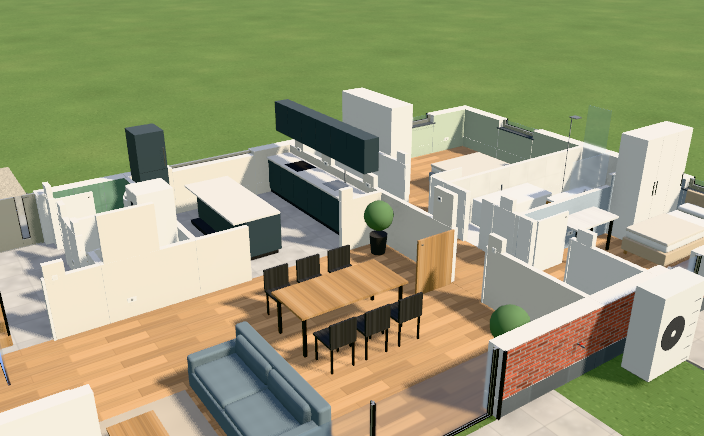
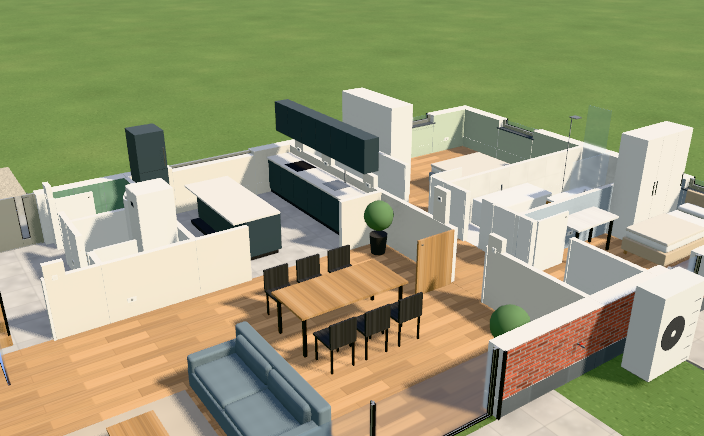
Bouw: hoog toestel en zijn stukje muur alleen van de kant van de ruimte (ronde 17, vervolg)
Met Muren laag stond in het eerste beeld Schuin vooraan de witte achterkant van het
stukje muur achter de airco, en achter tellerkast en verdeelbord een hoger stuk muur.
Nieuw optioneel veld Blok.alleenVanVoren (punt en normaal): de kijker toont zo'n blok
alleen als de camera aan de voorkant staat (wandenNaarCamera, zoals de decorwanden),
zonder schaduw, niet samengevoegd, en het vangt geen tik als het weg is. Stukjes muur
per muur en per kant. Pakket blijft versie 4; een oudere kijker toont ze altijd.
Twee nieuwe referentiebeelden bewust vernieuwd; zetels en andere beelden 0,00 %.

Claude-Session: https://claude.ai/code/session_01PczewFp9M8BS44vqTSpk6u

diff --git a/packages/core/src/techniekbinnen.ts b/packages/core/src/techniekbinnen.ts
@@ -18,7 +18,10 @@
  *     een eind erboven, over de breedte van het toestel plus een rand, in de wand van de ruimte, zoals een snede die daar
  *     hoger blijft. Een binnenmuur over haar hele dikte (aan elke kant de wand van die ruimte); een buitenmuur alleen met
  *     haar binnenblad (14 cm): de gevel blijft op de snijhoogte, anders stond er buiten een schoorsteen van baksteen.
- *     Toestellen dicht bij elkaar delen één stukje; een stukje loopt nooit over een raam of deur of door een hoek.
+ *     Toestellen dicht bij elkaar delen één stukje; een stukje loopt nooit over een raam of deur of door een hoek. Het
+ *     toestel en zijn stukje zijn **alleen te zien van de kant van de ruimte** waarin het hangt (`Blok.alleenVanVoren`,
+ *     de kijker volgt de camera): van achteren of van buiten de woning zie je gewoon de lage muur (vervolg ronde 17: in het
+ *     eerste beeld *Schuin* stond de witte achterkant van het stukje achter de airco vooraan en verborg de leefruimte).
  *   - aan het plafond (lichtpunt, inbouwspot, hanglamp, ventiel, cassette): weg; je ziet ze van binnen (`techniekVanBinnen`)
  *     en in de woning met volle muren en een dak.
  *   - op de vloer (warmtepomp, boiler, batterij): gewoon, ook als ze hoger zijn dan de lage muren (zoals een kast).
@@ -29,7 +32,7 @@
 import { binnenKant, isAccent, PLAFOND_DIKTE } from './binnenafwerking.js';
 import { toestelLicht } from './nacht.js';
 import {
-  buitenAfwerking, grondPrisma, langsAs, murenVan, muurVanOpening, niveauPlan, niveauVan, NEUTRAAL, opAs, ruimteOp, toestelBuiten,
+  asVan, buitenAfwerking, grondPrisma, langsAs, murenVan, muurVanOpening, niveauPlan, niveauVan, NEUTRAAL, opAs, ruimteOp, toestelBuiten,
   vloerHoogte, type GevelAfwerking, type GevelKant, type Muur, type PlanCatalogus, type Plattegrond, type Punt, type Ruimte,
 } from './plattegrond.js';
 import type { Blok } from './ruimtelijk.js';
@@ -100,8 +103,22 @@ function muurAchter(t: Toestel, type: ToestelType, muren: Muur[]): { m: Muur; s:
   return beste;
 }
 
-/** Een stukje muur: langs muur m van a tot b (langs de as), van y0 tot y1 (in de wereld). */
-interface Stukje { m: Muur; a: number; b: number; y0: number; y1: number; toestel: string }
+/**
+ * Een stukje muur: langs muur m van a tot b (langs de as), van y0 tot y1 (in de wereld), aan de kant `plus` of min van
+ * de muur (de kant van het toestel), en alleen te zien van die kant (`voren`).
+ */
+interface Stukje { m: Muur; a: number; b: number; y0: number; y1: number; toestel: string; plus: boolean; voren: NonNullable<Blok['alleenVanVoren']> }
+
+/**
+ * Het vlak van muur m aan de kant van een toestel (`plus` of min), met de normaal naar de ruimte: het toestel en zijn
+ * stukje muur zijn alleen te zien als de camera aan die kant staat (`Blok.alleenVanVoren`). Van achteren of van buiten de
+ * woning zie je dan gewoon de lage muur, zoals met de techniek uit.
+ */
+function vanVoren(m: Muur, plus: boolean, s: number, y: number): NonNullable<Blok['alleenVanVoren']> {
+  const { n } = asVan(m), k = plus ? 1 : -1;
+  const [x, z] = langsAs(m, s, m.lijn + (k * m.dikte) / 2);
+  return { punt: [r2(x), r2(y), r2(z)], normaal: [n[0] * k, 0, n[1] * k] };
+}
 
 /** De afwerking van de kant van muur m naar ruimte `id` (de wand, of de accentmuur), of de gevel als er geen ruimte is. */
 function kantAfwerking(plan: Plattegrond, cat: PlanCatalogus, m: Muur, id: string | undefined): GevelAfwerking {
@@ -113,11 +130,15 @@ function kantAfwerking(plan: Plattegrond, cat: PlanCatalogus, m: Muur, id: strin
   return w ? { soort: w.soort, kleur: w.kleur } : { soort: 'gevel', kleur: SNEDE };
 }
 
-/** De stukjes muur als blokken: per muur de stukjes die elkaar raken samen (geen vlakken op elkaar die flikkeren). */
+/**
+ * De stukjes muur als blokken: per muur en per kant de stukjes die elkaar raken samen (geen vlakken op elkaar die
+ * flikkeren). Twee stukjes aan weerskanten van dezelfde binnenmuur zie je nooit samen (elk alleen van zijn kant).
+ */
 function stukjesBlokken(plan: Plattegrond, cat: PlanCatalogus, stukjes: Stukje[], dingen: boolean): Blok[] {
   const uit: Blok[] = [];
   const perMuur = new Map<string, Stukje[]>();
-  for (const s of stukjes) perMuur.set(s.m.id, [...(perMuur.get(s.m.id) ?? []), s]);
+  for (const s of stukjes) { const k = `${s.m.id}|${s.plus}`; perMuur.set(k, [...(perMuur.get(k) ?? []), s]); }
+  const teller = new Map<string, number>();
   for (const lijst of perMuur.values()) {
     lijst.sort((p, q) => p.a - q.a);
     const samen: Stukje[] = [];
@@ -126,8 +147,10 @@ function stukjesBlokken(plan: Plattegrond, cat: PlanCatalogus, stukjes: Stukje[]
       if (vorige && s.a <= vorige.b + STUKJE_MUUR.samen) samen[samen.length - 1] = { ...vorige, b: Math.max(vorige.b, s.b), y1: Math.max(vorige.y1, s.y1) };
       else samen.push(s);
     }
-    for (const [i, s] of samen.entries()) {
+    for (const s of samen) {
       const { m } = s;
+      const i = teller.get(m.id) ?? 0;
+      teller.set(m.id, i + 1);
       const code = `${BINNEN_TECHNIEK}_muur_${m.id}_${i}`;
       const naam = dingen ? `toestel:${s.toestel}.${code}` : code;
       // Dwars op de muur: een binnenmuur helemaal; een buitenmuur alleen haar binnenblad (de gevel blijft op de snijhoogte,
@@ -146,14 +169,14 @@ function stukjesBlokken(plan: Plattegrond, cat: PlanCatalogus, stukjes: Stukje[]
         // Met de klok mee, zoals de muren (`metDeKlok`): anders omgekeerd, de randen mee (rand i loopt van punt i naar i + 1).
         const opp = punten.reduce((t, p, k) => { const q = punten[(k + 1) % punten.length]!; return t + p[0] * q[1] - q[0] * p[1]; }, 0);
         const [pt, rn] = opp < 0 ? [[...punten].reverse(), [randen[2]!, randen[1]!, randen[0]!, randen[3]!]] : [punten, randen];
-        uit.push(grondPrisma(naam, 'gevel', SNEDE, pt, r2(s.y0), h, { randen: rn }));
+        uit.push(grondPrisma(naam, 'gevel', SNEDE, pt, r2(s.y0), h, { randen: rn, alleenVanVoren: s.voren }));
         continue;
       }
       const [zp, zm] = m.as === 'h' ? (['z+', 'z-'] as const) : (['x+', 'x-'] as const);
       const zijden: Blok['zijden'] = {};
       if (plusAfw) zijden[zp] = plusAfw;
       if (minAfw) zijden[zm] = minAfw;
-      const basis = { code: naam, soort: 'gevel' as const, vorm: 'blok' as const, kleur: SNEDE, y: r2(s.y0), h, zijden };
+      const basis = { code: naam, soort: 'gevel' as const, vorm: 'blok' as const, kleur: SNEDE, y: r2(s.y0), h, zijden, alleenVanVoren: s.voren };
       uit.push(m.as === 'h'
         ? { ...basis, x: r2(s.a), z: r2(w0), b: r2(s.b - s.a), d: r2(w1 - w0) }
         : { ...basis, x: r2(w0), z: r2(s.a), b: r2(w1 - w0), d: r2(s.b - s.a) });
@@ -218,7 +241,7 @@ export function techniekBinnenBlokken(plan: Plattegrond, cat: PlanCatalogus, o: 
     if (t.aan === 'plafond' && bovenste && (laag !== undefined || !o.dakErop)) continue;
     const vloer = vloerHoogte(plan, n);
     const code = `${BINNEN_TECHNIEK}_${t.id}`;
-    const blokken = toestelAfgewerkt(t, type, vloer, H, code);
+    let blokken = toestelAfgewerkt(t, type, vloer, H, code);
     if (t.aan === 'wand' && laag !== undefined) {
       const top = Math.max(...blokken.map((b) => b.y + b.h)) - vloer;
       if (top > laag + 0.5) {
@@ -228,7 +251,10 @@ export function techniekBinnenBlokken(plan: Plattegrond, cat: PlanCatalogus, o: 
         // Geen muur erachter (of het hangt in een opening): niet tonen, anders zweeft het.
         if (!achter || !langs) continue;
         const y1 = boven === 'plafond' ? H : Math.min(H, Math.max(top + STUKJE_MUUR.boven, laag + STUKJE_MUUR.minstens));
-        stukjes.push({ m: achter.m, a: langs[0], b: langs[1], y0: vloer + laag, y1: vloer + y1, toestel: t.id });
+        // Het toestel en zijn stukje muur alleen van de kant van de ruimte waarin het hangt (zie `vanVoren`).
+        const voren = vanVoren(achter.m, achter.plus, achter.s, vloer + laag);
+        stukjes.push({ m: achter.m, a: langs[0], b: langs[1], y0: vloer + laag, y1: vloer + y1, toestel: t.id, plus: achter.plus, voren });
+        blokken = blokken.map((b) => ({ ...b, alleenVanVoren: voren }));
       }
     }
     const metLicht = o.verlichting ? gloeiBinnen(blokken, type, t) : blokken;

diff --git a/packages/core/test/techniekbinnen.test.ts b/packages/core/test/techniekbinnen.test.ts
@@ -134,8 +134,10 @@ describe('techniek binnen in de afgewerkte woning (techniekBinnen)', () => {
       expect(dekt!.y).toBe(LAAG);
       expect(dekt!.y + dekt!.h).toBeGreaterThanOrEqual(top(eigen) + STUKJE_MUUR.boven - 0.01);
     }
-    // Geen twee stukjes die elkaar overlappen (vlakken op elkaar flikkeren), geen stukje over een opening.
+    // Geen twee stukjes van dezelfde kant die elkaar overlappen (vlakken op elkaar flikkeren; twee kanten zie je nooit
+    // samen, zie hieronder), geen stukje over een opening.
     for (const [i, a] of stukjes.entries()) for (const b of stukjes.slice(i + 1)) {
+      if (JSON.stringify(a.alleenVanVoren?.normaal) !== JSON.stringify(b.alleenVanVoren?.normaal)) continue;
       const overlap = Math.min(a.x + a.b, b.x + b.b) - Math.max(a.x, b.x) > 0.01 && Math.min(a.z + a.d, b.z + b.d) - Math.max(a.z, b.z) > 0.01;
       expect(overlap).toBe(false);
     }
@@ -155,6 +157,41 @@ describe('techniek binnen in de afgewerkte woning (techniekBinnen)', () => {
     expect(Object.keys(achterAirco.zijden ?? {})).toEqual(['z-']);
     // Alle stukjes horen bij een toestel binnen (een tik erop kiest dat toestel).
     for (const s of stukjes) expect(plan.toestellen!.some((t) => t.id === idVan(s))).toBe(true);
+  });
+
+  it('muren laag: een hoog toestel en zijn stukje muur alleen van de kant van de ruimte (alleenVanVoren); de rest altijd', () => {
+    const { plan } = uitgerusteWoning();
+    const tc = cat.techniek!;
+    const bl = binnen(plattegrond3D(plan, cat, { dingen: true, laag: LAAG, totNiveau: 0, techniekBinnen: true }).blokken);
+    const voor = (b: Blok, p: readonly [number, number, number]) => {
+      const v = b.alleenVanVoren!;
+      return (p[0] - v.punt[0]) * v.normaal[0] + (p[1] - v.punt[1]) * v.normaal[1] + (p[2] - v.punt[2]) * v.normaal[2];
+    };
+    for (const t of plan.toestellen!.filter((x) => (x.niveau ?? 0) === 0 && !toestelBuiten(plan, x))) {
+      const eigen = bl.filter((b) => idVan(b) === t.id && !b.code.includes('_muur_'));
+      if (!eigen.length) continue;
+      const hoog = t.aan === 'wand' && t.hoogte + toestelMaten(tc.toestellen[t.type]!, t.aan).h > LAAG;
+      expect(eigen.every((b) => !!b.alleenVanVoren === hoog), t.id).toBe(true);
+      if (!hoog) continue;
+      // Het vlak ligt op de muur achter het toestel: het toestel (een eind vóór de muur) staat aan de voorkant, een punt een
+      // halve meter achter de muur niet.
+      const [vx, vy] = voorRichting(t.draai);
+      const m3 = toestelMaten(tc.toestellen[t.type]!, t.aan);
+      const b0 = eigen[0]!;
+      expect(voor(b0, [t.x + vx * 50, 150, t.y + vy * 50]), t.id).toBeGreaterThan(0);
+      expect(voor(b0, [t.x - vx * (m3.d / 2 + 60), 150, t.y - vy * (m3.d / 2 + 60)]), t.id).toBeLessThan(0);
+      // Het stukje muur achter het toestel ligt in hetzelfde vlak (zelfde normaal, punt op hetzelfde vlak).
+      const zelfdeVlak = (b: Blok) => !!b.alleenVanVoren && JSON.stringify(b.alleenVanVoren.normaal) === JSON.stringify(b0.alleenVanVoren!.normaal) && Math.abs(voor(b0, b.alleenVanVoren.punt)) < 0.01;
+      expect(bl.some((b) => b.code.includes('_muur_') && zelfdeVlak(b)), t.id).toBe(true);
+    }
+    // Elk stukje muur heeft een vlak; zonder lage muren en van binnen heeft niets het.
+    expect(bl.filter((b) => b.code.includes('_muur_')).every((b) => !!b.alleenVanVoren)).toBe(true);
+    expect(binnen(plattegrond3D(plan, cat, { dingen: true, techniekBinnen: true }).blokken).some((b) => b.alleenVanVoren)).toBe(false);
+    expect(binnen(ruimteVanBinnen(plan, cat, 'leef', { dingen: true, techniek: true })!.blokken).some((b) => b.alleenVanVoren)).toBe(false);
+    // De airco hangt aan de tuingevel (voorkant naar de straat): van de tuinkant (het standpunt Schuin) is ze weg.
+    const airco = bl.find((b) => idVan(b) === plan.toestellen!.find((t) => t.type === 'airco_wand')!.id)!;
+    expect(voor(airco, [700, 600, 2000])).toBeLessThan(0);
+    expect(voor(airco, [700, 600, -1200])).toBeGreaterThan(0);
   });
 
   it('muren laag, andere manieren: tot het plafond of weg', () => {

diff --git a/packages/demo-web/src/drie-d.ts b/packages/demo-web/src/drie-d.ts
@@ -2791,6 +2791,8 @@ function maakViewer(houder: HTMLElement, opties: Opties3D, intern: { geenWebGPU:
 
   /** Wanden van het decor (wegvallen als de camera erachter staat) en hoe ver het schaduwbereik moet reiken. */
   let decorWanden: { obj: any; punt: [number, number, number]; normaal: [number, number, number] }[] = [];
+  /** Ronde 17 (bouw): blokken met `alleenVanVoren` (een stukje muur met een hoog toestel), ook weg als de camera erachter staat. */
+  let vanVorenDelen: typeof decorWanden = [];
   let decorMarge = 0;
   function zetDecor(s: Scene3D | null) {
     for (const d of kamerDelen) { scene.remove(d); d.traverse((o: any) => o.geometry?.dispose()); }
@@ -2866,7 +2868,7 @@ function maakViewer(houder: HTMLElement, opties: Opties3D, intern: { geenWebGPU:
   }
   /** Wanden tussen de camera en de zetel weglaten (zoals in een bouwspel), anders zie je de zetel niet. */
   function wandenNaarCamera() {
-    for (const w of decorWanden) {
+    for (const w of [...decorWanden, ...vanVorenDelen]) {
       const d = (camera.position.x - w.punt[0]) * w.normaal[0] + (camera.position.y - w.punt[1]) * w.normaal[1] + (camera.position.z - w.punt[2]) * w.normaal[2];
       w.obj.visible = d > 0;
     }
@@ -3034,7 +3036,7 @@ function maakViewer(houder: HTMLElement, opties: Opties3D, intern: { geenWebGPU:
     const r = renderer.domElement.getBoundingClientRect();
     straal.setFromCamera(new THREE.Vector2(((ev.clientX - r.left) / r.width) * 2 - 1, -((ev.clientY - r.top) / r.height) * 2 + 1), camera);
     // Een gebouw: blokken die alleen schaduw werpen (lichtinval, `schaduw_…`) zijn onzichtbaar en vangen geen tik.
-    const raak = straal.intersectObjects(groep.children, true).find((h: any) => (h.object.name || h.object.parent?.name) && (opties.zetel || !String(h.object.name).startsWith('schaduw_')));
+    const raak = straal.intersectObjects(groep.children, true).find((h: any) => (h.object.name || h.object.parent?.name) && (opties.zetel || !String(h.object.name).startsWith('schaduw_')) && h.object.userData.vanVoren?.visible !== false);
     // Echt 3D-model: het element onder de klik, volgens zijn stuk langs x.
     const echt = raak?.object.parent?.userData?.echt as Echt3DPlaatsing | undefined;
     if (echt) {
@@ -3676,7 +3678,7 @@ function maakViewer(houder: HTMLElement, opties: Opties3D, intern: { geenWebGPU:
     const los: Blok[] = [];
     const groepen = new Map<string, { naam: string; mat: any; schaduw: boolean; vormen: any[] }>();
     for (const b of blokken) {
-      if (b.alleenSchaduw || b.soort === 'glas' || b.soort === 'matglas' || b.licht) { los.push(b); continue; }
+      if (b.alleenSchaduw || b.soort === 'glas' || b.soort === 'matglas' || b.licht || b.alleenVanVoren) { los.push(b); continue; }
       const m = mesh(b);
       const mats = Array.isArray(m.material) ? m.material : [m.material];
       if (!m.isMesh || m.children.length || mats.some((x: any) => x !== mats[0])) { m.geometry?.dispose(); los.push(b); continue; }
@@ -3758,8 +3760,14 @@ function maakViewer(houder: HTMLElement, opties: Opties3D, intern: { geenWebGPU:
       const apart = zichtbaar.filter((b) => !versmolten.has(b));
       lichtDelen = [];
       waasDelen = [];
+      vanVorenDelen = [];
       for (const b of !opties.zetel && s.samenvoegen ? voegGelijkeSamen(apart) : apart) {
         const m = mesh(b);
+        // Ronde 17: alleen van voren (zie `wandenNaarCamera`); geen schaduw (die volgt de camera niet) en geen tik als het weg is.
+        if (b.alleenVanVoren) {
+          m.traverse((o: any) => { o.castShadow = false; o.userData.vanVoren = m; });
+          vanVorenDelen.push({ obj: m, punt: b.alleenVanVoren.punt, normaal: b.alleenVanVoren.normaal });
+        }
         // Licht bij nacht (ronde 15): onthouden met het gewone materiaal; `zetNacht` zet het oplichtende erop.
         if (!opties.zetel && b.licht && typeof b.licht.kleur === 'string' && !b.alleenSchaduw && m.isMesh) {
           lichtDelen.push({ mesh: m, licht: b.licht, dag: m.material });

diff --git a/packages/core/src/ruimtelijk.ts b/packages/core/src/ruimtelijk.ts
@@ -127,6 +127,13 @@ export interface Blok {
    */
   alleenSchaduw?: boolean;
   /**
+   * Alleen te zien van voren (ronde 17, bouw): de kijker tekent het blok alleen als de camera aan de voorkant van dit vlak
+   * staat, (camera − `punt`) · `normaal` > 0 (wereld, cm), bij elk beeld opnieuw; dan vangt het ook geen tik en werpt
+   * het geen schaduw. Zo verdwijnt met lage muren een stukje muur met een hoog toestel erop als je het van achteren of van
+   * buiten de woning ziet. Een kijker die het veld niet kent, tekent het blok altijd.
+   */
+  alleenVanVoren?: { punt: [number, number, number]; normaal: [number, number, number] };
+  /**
    * Draaiing rond de verticale as in graden (van x naar z), rond het midden; bv. een kussen in een gebogen zetel, of een
    * raam, deur of meubel in een schuine muur (zie `draaiBlokken`). x, z, b en d zijn het blok vóór de draaiing.
    */

diff --git a/.claude/skills/bouw-woning/SKILL.md b/.claude/skills/bouw-woning/SKILL.md
@@ -47,7 +47,7 @@ Demo: `packages/bouw-web` (één HTML-bestand, `npm run build -w @configurator/b
 | `core/voorbeelden/woningopbouw.ts`, `bouw-web/src/constructie-ui.ts`, `doorsnede-ui.ts` | Opbouw per plaats (catalogus); knop Afgewerkt / Constructie, opbouw bij Woning, kaart Constructie in het overzicht; tab Doorsnede |
 | `core/src/techniek.ts` | Techniek voor de installateur (ronde 10): soorten gegevens (toestel, leiding, catalogus), vormen in 3D, `leidingVerloop`, `techniekBlokken`, `telTechniek`, `TECHNIEK_VOORBEHOUD`; via `plattegrond.ts` in de index |
 | `core/src/techniekplaatsen.ts` | Hulp voor het scherm: `tegenWand`, `leidingLangsWanden`, `technischeOpstelling`, `vloerverwarmingLus` (niet in de index: rechtstreeks importeren) |
-| `core/src/techniekbinnen.ts` | De techniek binnen in de afgewerkte woning (ronde 17): `techniekBinnenBlokken` (via `Plan3DOpties.techniekBinnen`), `techniekVanBinnen` (via `ruimteVanBinnen(…, { techniek })`), `toestelAfgewerkt` (met `ToestelType.inbouw`), het stukje muur (`STUKJE_MUUR`, `BovenSnede`), `isBinnenTechniek`, `heeftTechniekBinnen`, `BINNEN_TECHNIEK`; zie *Techniek binnen in de afgewerkte woning* |
+| `core/src/techniekbinnen.ts` | De techniek binnen in de afgewerkte woning (ronde 17): `techniekBinnenBlokken` (hoge toestellen en hun stukje muur met `Blok.alleenVanVoren`, `vanVoren`) (via `Plan3DOpties.techniekBinnen`), `techniekVanBinnen` (via `ruimteVanBinnen(…, { techniek })`), `toestelAfgewerkt` (met `ToestelType.inbouw`), het stukje muur (`STUKJE_MUUR`, `BovenSnede`), `isBinnenTechniek`, `heeftTechniekBinnen`, `BINNEN_TECHNIEK`; zie *Techniek binnen in de afgewerkte woning* |
 | `core/src/techniekklant.ts` | Techniek voor de klant (ronde 10c): `techniekVoorKlant` (per vak wat er komt, per toestel of leiding wat het is en waar), `techniekPakket` (het veld `techniek` van het 3D-pakket), `klantWoorden`; zie *Techniek voor de klant* |
 | `core/voorbeelden/techniek.ts`, `techniekwoning.ts`, `techniekbeeld.ts` | Catalogus techniek (`techniekCatalogus`, sinds ronde 10c met `klant` per toestel en soort leiding), de uitgeruste voorbeeldwoning (`uitgerusteWoning`, `techniekPlanCatalogus`), de gegevens voor de beeldtest |
 | `bouw-web/src/techniek-ui.ts` | Het scherm van de techniek (ronde 10b): modus, palet, plaatsen, slepen, leidingen trekken, technische ruimte, vloerverwarming, de knop en balk bij de 3D, het keuzepaneel in de 3D, de kaart *Techniek* in het overzicht |
@@ -584,15 +584,16 @@ Jonas (17/11): *"Bij afgewerkt zouden de zaken van de techniek ook zichtbaar mog
 - **Motor** (`core/src/techniekbinnen.ts`, een paar regels in `plattegrond.ts`: de optie, twee aanroepen naast `techniekBuiten3D` en één in `ruimteVanBinnen`): `Plan3DOpties.techniekBinnen` (uit in de motor, aan in `plattegrond-ui.ts` en in `woningScene` alleen voor het bestand voor de klant). Elk toestel dat niet `toestelBuiten` is, op zijn plaats en **echte maat** (`toestelBlokken(…, false)`), in de kleur uit de catalogus (wit, grijs, metaal; geen kleuren van de vakken, geen merkteken), **geen leidingen**, na het kader. Niet als `techniek` gezet is (dan staan ze er al). Wat buiten staat, tekent `techniekBuiten` zoals vroeger: niets dubbel.
   - **Inbouw** (`ToestelType.inbouw`, optioneel, cm; `toestelAfgewerkt`): wat in de muur of het plafond zit, zakt erin; de maten `b`, `d`, `h` blijven die om te plaatsen en te controleren. Stopcontacten, schakelaar en datapunt 2,8 (het plaatje steekt 1,2 cm uit; met de 4 cm van de doos waren het blokjes), thermostaat 1,5, inbouwspot 1,2 (de rand steekt 3 mm onder het plafond, het glas eronder), ventielen 1,6, cassette 2. De achterkant blijft tegen de muur: het toestel schuift de muur in.
   - **Aan het plafond** (lichtpunt, inbouwspot, hanglamp, ventielen, cassette, ventilatie-unit tegen het plafond): alleen waar er een plafond is: niet op de bovenste getoonde verdieping met *Muren laag* of zonder dak erop (`totNiveau`, *Dak* uit); onder de vloerplaat van een verdieping erboven en onder het dak wel.
-  - **Muren laag, wat boven de snijhoogte aan de muur hangt** (de schakelaars van 106 tot 114 cm, de stopcontacten boven het werkblad, de thermostaat, de airco, tellerkast en verdeelbord): een **stukje muur erachter** (`STUKJE_MUUR`: 12 cm opzij, tot 14 cm boven het toestel, minstens 24 cm hoog; stukjes binnen 20 cm van elkaar worden één). Een binnenmuur over haar hele dikte, in de wand van de ruimte aan elke kant (ook de accentmuur); een **buitenmuur alleen haar binnenblad** (14 cm): de gevel blijft op de snijhoogte. Nooit over een raam of deur (een toestel in een opening: niet tonen), niet voorbij het binnenvlak van een dwarsmuur. De bovenkant en de zijkanten in de kleur van de snede (pleister), zoals de bovenkant van de lage muren. Codes `binnentechniek_muur_<muur>_<n>`, ding het (eerste) toestel. Op de vloer (warmtepomp, boiler, batterij): gewoon, ook hoger dan de lage muren (zoals een kast).
+  - **Muren laag, wat boven de snijhoogte aan de muur hangt** (de schakelaars van 106 tot 114 cm, de stopcontacten boven het werkblad, de thermostaat, de airco, tellerkast en verdeelbord): een **stukje muur erachter** (`STUKJE_MUUR`: 12 cm opzij, tot 14 cm boven het toestel, minstens 24 cm hoog; stukjes binnen 20 cm van elkaar worden één). Een binnenmuur over haar hele dikte, in de wand van de ruimte aan elke kant (ook de accentmuur); een **buitenmuur alleen haar binnenblad** (14 cm): de gevel blijft op de snijhoogte. Nooit over een raam of deur (een toestel in een opening: niet tonen), niet voorbij het binnenvlak van een dwarsmuur. De bovenkant en de zijkanten in de kleur van de snede (pleister), zoals de bovenkant van de lage muren. Codes `binnentechniek_muur_<muur>_<n>`, ding het (eerste) toestel. **Alleen van de kant van het toestel** (vervolg ronde 17): het toestel en zijn stukje muur krijgen `Blok.alleenVanVoren` (`punt` op het muurvlak aan de kant van de ruimte, `normaal` naar de ruimte; `vanVoren` in techniekbinnen.ts); van achteren of van buiten de woning zie je gewoon de lage muur, zoals met de techniek uit. Eerst stond in het eerste beeld *Schuin* (de tuinkant) vooraan de witte achterkant van het stukje achter de airco, over de salontafel, en achter tellerkast en verdeelbord een hoger stuk muur zonder reden. Stukjes worden per muur **en per kant** samengevoegd; twee stukjes aan weerskanten van een binnenmuur zie je nooit samen. Op de vloer (warmtepomp, boiler, batterij): gewoon, ook hoger dan de lage muren (zoals een kast).
   - **Gekozen na vier proeven** (zelfde plan, kijker, echte beelden; `BovenSnede` laat `plafond` en `weg` nog toe voor een proef): *stukje muur tot boven het toestel* (gekozen), *stukje muur tot het plafond* (elke schakelaar naast een deur wordt een pilaar van 2,7 m: een woud van palen, de snede leest niet meer), *weg* (rustig, maar de airco en elke schakelaar ontbreken: juist wat Jonas noemt), *alles op zijn echte hoogte zonder muur* (de airco, de ventilatie-unit en de lampen zweven in de lucht). Eerst was het stukje over de hele dikte van een buitenmuur: van buiten stond er dan een schoorsteen van baksteen achter de airco; met alleen het binnenblad is het een wit vlak achter de gevel.
   - **'s Nachts** (`verlichting`): de lampen binnen gloeien (`toestelLicht`) zonder echt licht (`bereik` en `vanaf` eraf): een wandlamp van 300 cm bereik zou zonder schaduw door de muur op de gevel schijnen en een van de zes echte lichten van de lampen buiten afnemen.
   - **Van binnen** (`ruimteVanBinnen(…, { techniek: true })`, `techniekVanBinnen`): de toestellen van die ruimte (`ruimteOp`), niet die aan een muur aan de open kant; wat aan het plafond hangt, onder de laag van het plafond (lager bij een verlaagd plafond); op de vloer van de ruimte, vóór het draaien.
   - **Codes**: `binnentechniek_<id>_…` (met dingen `toestel:<id>.binnentechniek_…`): `isBinnenTechniek(code)` herkent ze met en zonder ding (de zending heeft geen dingen). `heeftTechniekBinnen(plan)`.
+- **De kijker** (`drie-d.ts`, vervolg ronde 17, klein en op één plaats): een blok met `alleenVanVoren` komt in `vanVorenDelen` en volgt de camera in `wandenNaarCamera` (zoals de decorwanden van de zetels: zichtbaar als (camera − punt) · normaal > 0, bij elke `plaatsCamera`); het werpt geen schaduw (de schaduwkaart volgt de camera niet), wordt niet samengevoegd (`voegGelijkeSamen`) en vangt geen tik als het weg is (`userData.vanVoren` in `kies`). Een scène zonder het veld verandert niets (de zetels en alle andere beelden 0,00 %); een oudere kijker toont het stukje altijd. Geldt in de app, de klantweergave en de kijker (*De woning*); het pakket blijft versie 4.
 - **Scherm**: schakelaar **Techniek** in de rij *Tonen* naast *Meubels* (`#pl-toon-techniek-label`, `#pl-toon-techniek`, `[data-toon-techniek]`; standaard aan, niet bewaard), alleen zichtbaar met een toestel binnen in het plan en in Afgewerkt (niet in Constructie of Techniek). Geldt voor de woning en van binnen. Ook in de klantweergave. Een tik op een toestel (of zijn stukje muur) geeft het keuzepaneel van het toestel (`techniekDingKeuzes`), zoals wat buiten staat; in de klantweergave `.tklant` (naam, uitleg, waar).
 - **Bestand voor de klant**: `maakPakket3D(…, { techniek: true })` geeft `woningScene` `techniekBinnen` (beide scènes per verdieping, met en zonder lage muren). De kijker: schakelaar **Techniek** naast *Muren laag* (`#techniek-wrap`, `#techniek-toon`, `[data-toon-techniek]`, standaard aan), alleen bij *De woning* en alleen als de scènes blokken `binnentechniek_` hebben; uit = die blokken eruit filteren (wat buiten staat blijft). Een tik op een toestel binnen opent de kaart `#techniek-info`, zoals buiten. **Pakket blijft versie 4, geen nieuw veld**; een oudere kijker toont de toestellen gewoon (zonder schakelaar). De zending, het blad, *Het ontwerp* en de varianten naast elkaar krijgen de techniek binnen **niet** (het blad: van boven zie je een stopcontact niet, alleen de stukjes muur; het blad heeft al *De techniek, per verdieping*).
-- **Gemeten** (Playwright, tablet staand 820 × 1180 met aanraking en laptop 1440 × 900, op beide hetzelfde; elke taak op een verse pagina met *Voorbeeld openen: woning met techniek*, vanaf de 3D in Afgewerkt; scripts `meet.cjs`, `app.cjs`, `vergelijk.cjs`, `compat.cjs` in de scratchpad van ronde 17): de stopcontacten boven het werkblad van de keuken **3** tikken (*Muren laag*, tik op de vloer van de keuken, *Bekijk van binnen*); met alleen *Muren laag* (**1**) zie je het werkblad met de stukjes muur, maar een stopcontact is dan een paar beeldpunten (knijpen om in te zoomen). De airco van voren **5** (*Muren laag*, de vloer van de leefruimte, *Bekijk van binnen*, twee keer *Andere kant*), of *Muren laag* en de 3D een halve slag draaien; een tik op de airco opent haar keuzepaneel en de ruimte van binnen blijft open. *Techniek* uit of aan **1** tik (op de tablet 98 × 44 beeldpunten; met een muis 88 × 22 zoals de andere schakelaars); weg in Constructie en Techniek. Klantweergave (eerst *3D*: de klantweergave toont de tekening): de schakelaar staat er, een tik op het stukje muur achter de airco geeft *Airco (binnendeel)* met de uitleg en *Leefruimte, aan de muur (gelijkvloers)*, alleen *Sluiten*. **Een stopcontact als doel voor een tik is klein**: van binnen in de keuken 7 × 8 beeldpunten op de tablet (de kijker kiest wat de straal raakt, zonder speling): wie een stopcontact wil aantikken, zoomt eerst in; wat met een stukje muur boven de lage muren uitkomt, raak je via dat stukje (het hoort bij het toestel). Grootte (uitgerekend op de scènes uit de motor, niet op een echt bestand voor de klant): de scènes van de woning van de uitgeruste voorbeeldwoning + 99 kB (de twee verdiepingen, met en zonder lage muren; op een bestand van ± 2,4 MB zo'n 4 %), de uitbouw + 15 kB; de motor ± 1,3 ms meer per 3D. De kijker van vóór deze ronde met een nieuw bestand: toont de toestellen binnen, zonder schakelaar, geen fout; de nieuwe kijker met een bestand zonder techniek binnen: geen schakelaar. Geen verzoeken naar buiten.
-- **Niet gedaan / open**: de leidingen (bewust: ze zitten in de muren en de vloer); met *Muren laag* niets aan het plafond (ook de hanglamp boven de tafel niet; die zie je van binnen); een stopcontact achter een meubel staat er (zoals in het echt) maar je ziet het niet (in de voorbeeldwoning achter het tv-meubel, de koelkast en de nachtkastjes); in het standpunt *Schuin* met *Muren laag* (in de app en in de kijker: de tuinkant) zie je de airco zelf niet, alleen de witte achterkant van haar stukje muur achter de gevel, en waar aan de andere kant van een binnenmuur iets hangt (tellerkast en verdeelbord in de berging) een stuk muur dat hoger blijft zonder dat je ziet waarom (draai om ze te zien); het stukje muur van een schuine muur (prisma) is getest noch bekeken; een toestel met een eigen draaiing (aan een schuine muur) draait van binnen met *Andere kant* niet mee (`draaiKwart` past de `draai` van een blok niet aan); het stukje muur volgt geen strook op de gevel en geen losse wand (een toestel boven de snijhoogte tegen een losse wand valt weg); van binnen is een kleine berging met warmtepomp en boiler krap (de camera staat er bijna tegen; met *Muren laag* is ze beter te zien); 's nachts lichten de lampen binnen niet echt (geen licht door het glas, dat 's nachts niet doorzichtig is), en hun gloed is nooit in beeld gebracht (de voorbeeldwoning heeft geen wandlamp binnen; wat aan het plafond hangt, staat er met lage muren niet); geen techniek binnen op het blad (van boven zie je een stopcontact niet, alleen de stukjes muur; het blad heeft *De techniek, per verdieping*), in de zending, *Het ontwerp* of de varianten naast elkaar. Alleen bekeken in Chromium zonder grafische kaart (Snel en, voor de beelden, Mooi), niet in WebGPU of op een echt toestel.
+- **Gemeten** (Playwright, tablet staand 820 × 1180 met aanraking en laptop 1440 × 900, op beide hetzelfde; elke taak op een verse pagina met *Voorbeeld openen: woning met techniek*, vanaf de 3D in Afgewerkt; scripts `meet.cjs`, `app.cjs`, `vergelijk.cjs`, `compat.cjs` in de scratchpad van ronde 17): de stopcontacten boven het werkblad van de keuken **3** tikken (*Muren laag*, tik op de vloer van de keuken, *Bekijk van binnen*); met alleen *Muren laag* (**1**) zie je het werkblad, maar een stopcontact is dan een paar beeldpunten (knijpen om in te zoomen). De airco van voren **5** (*Muren laag*, de vloer van de leefruimte, *Bekijk van binnen*, twee keer *Andere kant*), of *Muren laag* en de 3D een halve slag draaien; een tik op de airco opent haar keuzepaneel en de ruimte van binnen blijft open. *Techniek* uit of aan **1** tik (op de tablet 98 × 44 beeldpunten; met een muis 88 × 22 zoals de andere schakelaars); weg in Constructie en Techniek. Klantweergave (eerst *3D*: de klantweergave toont de tekening): de schakelaar staat er, een tik op de airco (of haar stukje muur) geeft *Airco (binnendeel)* met de uitleg en *Leefruimte, aan de muur (gelijkvloers)*, alleen *Sluiten*. Sinds het vervolg vangt een stukje dat van achteren weg is geen tik meer: waar vroeger zijn achterkant stond, kiest een tik de vloer van de leefruimte (app, laptop en tablet); in de kijker opent van achteren geen kaart, van voren (een halve slag gedraaid) wel. **Een stopcontact als doel voor een tik is klein**: van binnen in de keuken 7 × 8 beeldpunten op de tablet (de kijker kiest wat de straal raakt, zonder speling): wie een stopcontact wil aantikken, zoomt eerst in; wat met een stukje muur boven de lage muren uitkomt, raak je via dat stukje (het hoort bij het toestel). Grootte (uitgerekend op de scènes uit de motor, niet op een echt bestand voor de klant): de scènes van de woning van de uitgeruste voorbeeldwoning + 99 kB (de twee verdiepingen, met en zonder lage muren; op een bestand van ± 2,4 MB zo'n 4 %), de uitbouw + 15 kB; de motor ± 1,3 ms meer per 3D. De kijker van vóór deze ronde met een nieuw bestand: toont de toestellen binnen, zonder schakelaar, geen fout; de nieuwe kijker met een bestand zonder techniek binnen: geen schakelaar. Geen verzoeken naar buiten.
+- **Niet gedaan / open**: de leidingen (bewust: ze zitten in de muren en de vloer); met *Muren laag* niets aan het plafond (ook de hanglamp boven de tafel niet; die zie je van binnen); een stopcontact achter een meubel staat er (zoals in het echt) maar je ziet het niet (in de voorbeeldwoning achter het tv-meubel, de koelkast en de nachtkastjes); in het standpunt *Schuin* met *Muren laag* (de tuinkant) zie je de airco niet (ze hangt aan de tuingevel met haar voorkant naar de straat: draai de 3D, dan staat ze er met haar stukje muur); het stukje muur van een schuine muur (prisma) is getest noch bekeken; een toestel met een eigen draaiing (aan een schuine muur) draait van binnen met *Andere kant* niet mee (`draaiKwart` past de `draai` van een blok niet aan); het stukje muur volgt geen strook op de gevel en geen losse wand (een toestel boven de snijhoogte tegen een losse wand valt weg); van binnen is een kleine berging met warmtepomp en boiler krap (de camera staat er bijna tegen; met *Muren laag* is ze beter te zien); 's nachts lichten de lampen binnen niet echt (geen licht door het glas, dat 's nachts niet doorzichtig is), en hun gloed is nooit in beeld gebracht (de voorbeeldwoning heeft geen wandlamp binnen; wat aan het plafond hangt, staat er met lage muren niet); geen techniek binnen op het blad (van boven zie je een stopcontact niet, alleen de stukjes muur; het blad heeft *De techniek, per verdieping*), in de zending, *Het ontwerp* of de varianten naast elkaar. Alleen bekeken in Chromium zonder grafische kaart (Snel en, voor de beelden, Mooi), niet in WebGPU of op een echt toestel.
 - Tests: `core/test/techniekbinnen.test.ts`. Beelden (nieuw): `bouw-techniek-afgewerkt-laag`, `bouw-techniek-van-binnen`, `bouw-techniek-woning-laag`; geen bestaand beeld vernieuwd (`bouw-techniek-buiten` en `bouw-uitbouw-3d` tonen enkele beeldpunten meer achter het glas, 0,00 %). Samen te vernieuwen met `--alleen bouw-techniek`.
 
 ## Nachtweergave en ledstrips (ronde 15, 17/11)

diff --git a/beeldtest/LEESMIJ.md b/beeldtest/LEESMIJ.md
@@ -65,7 +65,7 @@ Voorbeeld (proef van 5/11, de vierkante voet onder Pebble tijdelijk teruggezet):
 | `bouw-nacht-voor`, `bouw-nacht-schuin` | de nachtweergave (ronde 15, 17/11): de voorbeeldwoning met twee buitenlampen aan de tuingevel, twee tuinlampen bij het terras en een ledstrip onder de dakrand (`NACHT_TECHNIEK` in het script, rechtstreeks in het bewaarde project), met *Nacht* rechtsboven op de 3D. De lucht van een late avond, de ramen die oplichten (de leefruimte feller dan een slaapkamer), het licht door het schuifraam op het terras, de lampen met hun licht op de gevel en het gras, de band licht onder de strip, en in *Mooi* de gloed. Van voren (de tuingevel) en schuin. Op een eigen pagina met een vers project. Samen te vernieuwen met `--alleen bouw-nacht`. De andere beelden zetten de nacht nooit aan: zij bewaken dat er overdag niets veranderde |
 | `bouw-binnenafwerking-laag`, `bouw-binnenafwerking-ruimte` | binnenafwerking (ronde 12, 17/11), op een eigen pagina met een vers project: de voorbeeldwoning met op het gelijkvloers een witte plint en een wit plafond in elke ruimte, in de leefruimte een plint in hout zoals het parket, een houten plafond en een accentmuur in terracotta (de zijgevel met het raam), in de keuken een accentmuur in saliegroen en in slaapkamer 1 een in terracotta (`BINNENAFWERKING` in het script, via het bewaarde project). De 3D met lage muren, schuin en drie stappen dichterbij (de plinten, onderbroken aan de deuren, de accentmuren van keuken en slaapkamer); en de leefruimte *van binnen* (gekozen in de tekening, *Bekijk van binnen*): de accentmuur achteraan, het houten plafond van onder, op de effen achtergrond in het zachte licht van die weergave. Samen te vernieuwen met `--alleen bouw-binnenafwerking` |
 | `bouw-verlichting-schuin`, `bouw-verlichting-ruimte` | verlichting in één tik (ronde 15b, 17/11), elk op een eigen pagina met een vers project (de voorbeeldwoning): de drie voorstellen bij de nacht met de knoppen zelf aangetikt (*Verlichting*, *Ledstrip onder de dakrand*, *Lampen bij de deuren*, *Tuinlampen*; core/src/verlichting.ts rekent uit waar ze komen), schuin: de strips onder elke dakrand (gelijkvloers en verdieping), een buitenlamp naast de terrasdeur en aan weerskanten van het schuifraam, een tuinlamp naast het terras (de voordeur met haar lamp en het pad met de andere tuinlampen liggen aan de andere kant, buiten beeld). En met *Muren laag* de ledstrip rondom langs het plafond van de leefruimte (`VERLICHTING_RUIMTE` in het script, rechtstreeks in het bewaarde project, met `voorstel: 'plafond'`), die dan bovenop de lage muren ligt, bij nacht. Samen te vernieuwen met `--alleen bouw-verlichting` |
-| `bouw-techniek-afgewerkt-laag`, `bouw-techniek-van-binnen`, `bouw-techniek-woning-laag` | de techniek binnen in de afgewerkte woning (ronde 17, 17/11; `techniekBinnen`, `core/src/techniekbinnen.ts`): de toestellen op ware grootte in hun eigen kleur, zonder merkteken of leidingen; met *Muren laag* wat boven de snijhoogte aan de muur hangt met een stukje muur erachter (een buitenmuur alleen haar binnenblad), niets aan het plafond. `bouw-techniek-afgewerkt-laag`: de configurator (de pagina van `bouw-techniek-scherm-…`, na `bouw-techniek-buiten`), *Afgewerkt* met *Muren laag*, schuin en dichterbij (de keuken met de stopcontacten boven het werkblad en hun stukje muur, de thermostaat en de schakelaars naast de deuren, het stukje muur achter tellerkast en verdeelbord in de berging). `bouw-techniek-van-binnen`: daarna de leefruimte van binnen (via de lijst *Ruimtes* en *Bekijk van binnen*, twee keer *Andere kant*): de airco hoog aan de muur, de hanglamp boven de tafel, lichtpunt en ventielen aan het plafond, de schakelaar naast de deur. `bouw-techniek-woning-laag`: het pakket van het bestand voor de klant (`klant` uit `techniekbeeld.ts`, sinds ronde 17 met `techniekBinnen`) in de **losse kijker**, *De woning* met *Muren laag* (de schakelaar *Techniek* staat standaard aan), van de straatkant (de airco van voren). `bouw-techniek-buiten` en `bouw-uitbouw-3d` tonen sindsdien ook wat binnen achter het glas hangt (enkele beeldpunten, 0,00 %): niet vernieuwd. Samen te vernieuwen met `--alleen bouw-techniek` (alle beelden van de techniek, ook die van ronde 10 en 10c, die gelijk moeten blijven) |
+| `bouw-techniek-afgewerkt-laag`, `bouw-techniek-van-binnen`, `bouw-techniek-woning-laag` | de techniek binnen in de afgewerkte woning (ronde 17, 17/11; `techniekBinnen`, `core/src/techniekbinnen.ts`): de toestellen op ware grootte in hun eigen kleur, zonder merkteken of leidingen; met *Muren laag* wat boven de snijhoogte aan de muur hangt met een stukje muur erachter (een buitenmuur alleen haar binnenblad), niets aan het plafond. `bouw-techniek-afgewerkt-laag`: de configurator (de pagina van `bouw-techniek-scherm-…`, na `bouw-techniek-buiten`), *Afgewerkt* met *Muren laag*, schuin en dichterbij (de keuken met de stopcontacten boven het werkblad en hun stukje muur, de thermostaat en de schakelaars naast de deuren, het stukje muur achter tellerkast en verdeelbord in de berging). `bouw-techniek-van-binnen`: daarna de leefruimte van binnen (via de lijst *Ruimtes* en *Bekijk van binnen*, twee keer *Andere kant*): de airco hoog aan de muur, de hanglamp boven de tafel, lichtpunt en ventielen aan het plafond, de schakelaar naast de deur. `bouw-techniek-woning-laag`: het pakket van het bestand voor de klant (`klant` uit `techniekbeeld.ts`, sinds ronde 17 met `techniekBinnen`) in de **losse kijker**, *De woning* met *Muren laag* (de schakelaar *Techniek* staat standaard aan), van de straatkant (de airco van voren). Vervolg ronde 17 (17/11): een hoog toestel en zijn stukje muur zijn alleen te zien van de kant van de ruimte (`Blok.alleenVanVoren`, de kijker volgt de camera in `drie-d.ts`) en werpen geen schaduw meer: `bouw-techniek-afgewerkt-laag` (2,34 %: de witte achterkant van het stukje achter de airco linksvoor en het stuk muur achter tellerkast en verdeelbord vallen weg, net als de stukjes in de keuken die van de camera wegkijken) en `bouw-techniek-woning-laag` (0,39 %: de stukjes die van de straatkant wegkijken, de schaduw van het stukje achter de airco) zijn bewust vernieuwd; `bouw-techniek-van-binnen` bleef gelijk, net als alle zetels en alle andere bouwbeelden (0,00 %). `bouw-techniek-buiten` en `bouw-uitbouw-3d` tonen sindsdien ook wat binnen achter het glas hangt (enkele beeldpunten, 0,00 %): niet vernieuwd. Samen te vernieuwen met `--alleen bouw-techniek` (alle beelden van de techniek, ook die van ronde 10 en 10c, die gelijk moeten blijven) |
 | `milton-schuin`, `mabel2-schuin` | fauteuils met de opbouw van de klant: vaste ronde zitting, dunne schaal met bies, houten frame op schuine poten (13/11) |
 | `fraser-schuin` | vier schuine poten met een kruis, zitting in twee lagen, schaal die rond de zitting uitsteekt |
 | `satie-schuin`, `quin-schuin` | trommel tot op de vloer of op een lage voet, met één of vier losse kussens tegen de schaal |
